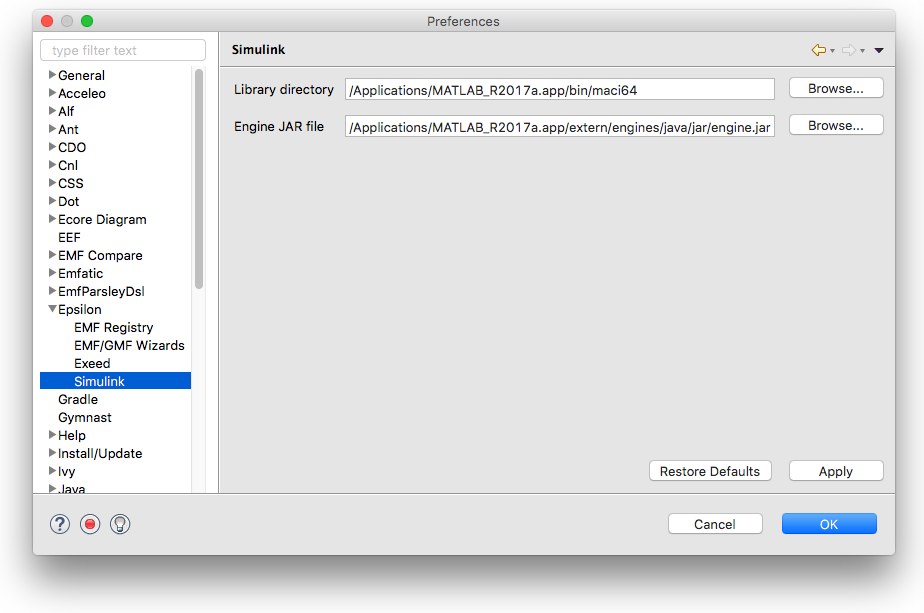
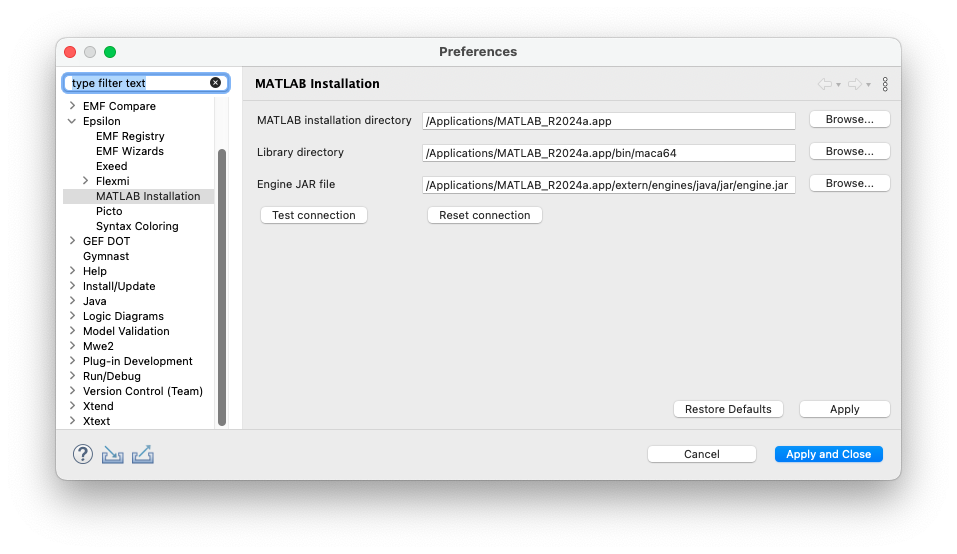
Updated Simulink article

Changed region(s): [[0.0, 0.0, 1.0, 0.9819]]

diff --git a/mkdocs/docs/doc/articles/simulink/index.md b/mkdocs/docs/doc/articles/simulink/index.md
@@ -2,22 +2,27 @@
 
 In this article we demonstrate how you can create, query and modify Simulink models in Epsilon programs. While the example in this article demonstrates using EOL to script Simulink models, it's worth stressing that Simulink models are supported throughout Epsilon. Therefore, you can use Epsilon to (cross-)validate, transform (to other models - Simulink or EMF-based -, or to text), compare and merge your Simulink models.
 
-!!! warning
-    The Simulink driver only works with Java 8 for versions of MATLAB before 2021a. This is due to a limitation of the [official MATLAB Java API](https://uk.mathworks.com/help/matlab/matlab-engine-api-for-java.html).
-
 ## Installation
 
-The first time you run Eclipse after installing the Simulink driver you will need to point it to the location of your Matlab installation through the Eclipse `Preferences→Epsilon→Simulink` dialog. In particular, you need to specify the location of the `<matlab-root>/bin/win64` (or `/bin/maci64` if you are on Mac OS) directory and Matlab's `engine.jar` as shown below. Note that in most cases, if you installed MATLAB in the default location for your operating system, the paths should be automatically detected, and if not you should usually only need to set the MATLAB root directory in your preferences.
+The first time you run Eclipse after installing the Simulink driver you will need to point it to the location of your MATLAB installation through the Eclipse `Preferences -> Epsilon -> MATLAB Installation` dialog as shown below. In particular, you need to specify:
+
+- The MATLAB Installation directory
+- The MATLAB Library directory
+    - `<matlab-root>/bin/win64` on Windows 
+    - `/bin/maci64` on MacOS Intel 
+    - `/bin/maca64` on MacOS Apple Silicon
+- MATLAB's `engine.jar` 
+
+Note that in most cases, if you installed MATLAB in the default location for your operating system, the paths should be automatically detected, and if not you should usually only need to set the MATLAB root directory in your preferences.
 
 ![](preferences.png)
 
 ## Troubleshooting / Notes
 
-- The driver has been developed and tested with Matlab_R2017a and may not work with older versions of Matlab (`engine.jar` was introduced fairly recently).
+- Please see the official [Matlab documentation](https://uk.mathworks.com/help/matlab/matlab_external/setup-environment.html) for instructions on setting up OS variables and the Java library path.
 - If you start getting strange errors about dynamic libraries, chances are that the Matlab paths above are wrong. If restarting Eclipse and correcting the paths doesn't solve this, please post a message to the forum.
-- If you are on Windows, ensure that `<matlab-root>/bin/win64` is in the system path (in Windows' Environment Variables).
 - In some cases, you may need to use the same Java runtime (JRE) as your MATLAB installation. For example in Windows, the path to MATLAB's Java is `<matlab-root>/sys/java/jre/win64/jre`. To configure an alternative JRE, please set the `MATLAB_JAVA` environment variable to point to a compatible JRE, and ensure that both your Eclipse and MATLAB are using the same JRE version.
-- If you are having trouble configuring the MATLAB paths from the UI (or no alternative configuration method is available), you can set the "org.eclipse.epsilon.emc.matlab_path" environment variable to point to your MATLAB installation.
+- If you are having trouble configuring the MATLAB paths from the UI (or no alternative configuration method is available), you can set the `org.eclipse.epsilon.emc.matlab_path` environment variable to point to your MATLAB installation.
 
 ## Quick start
 
@@ -58,3 +63,7 @@ busCreator.link(scope);
 - Launch the Run configuration. Simulink should pop up and you should see the model below (which you can edit/run as normal)
 
 ![](simulink-model.png)
+
+## Updates in Epsilon 2.6
+
+While older versions of Java allowed altering the Java library path at runtime, this is no longer possible. Therefore, we have removed the respective configuration property and UI. Please check the official [Matlab documentation](https://uk.mathworks.com/help/matlab/matlab_external/setup-environment.html) for instructions on setting up OS variables and the Java library path. Epsilon 2.6 also adds support for Apple Silicon.
